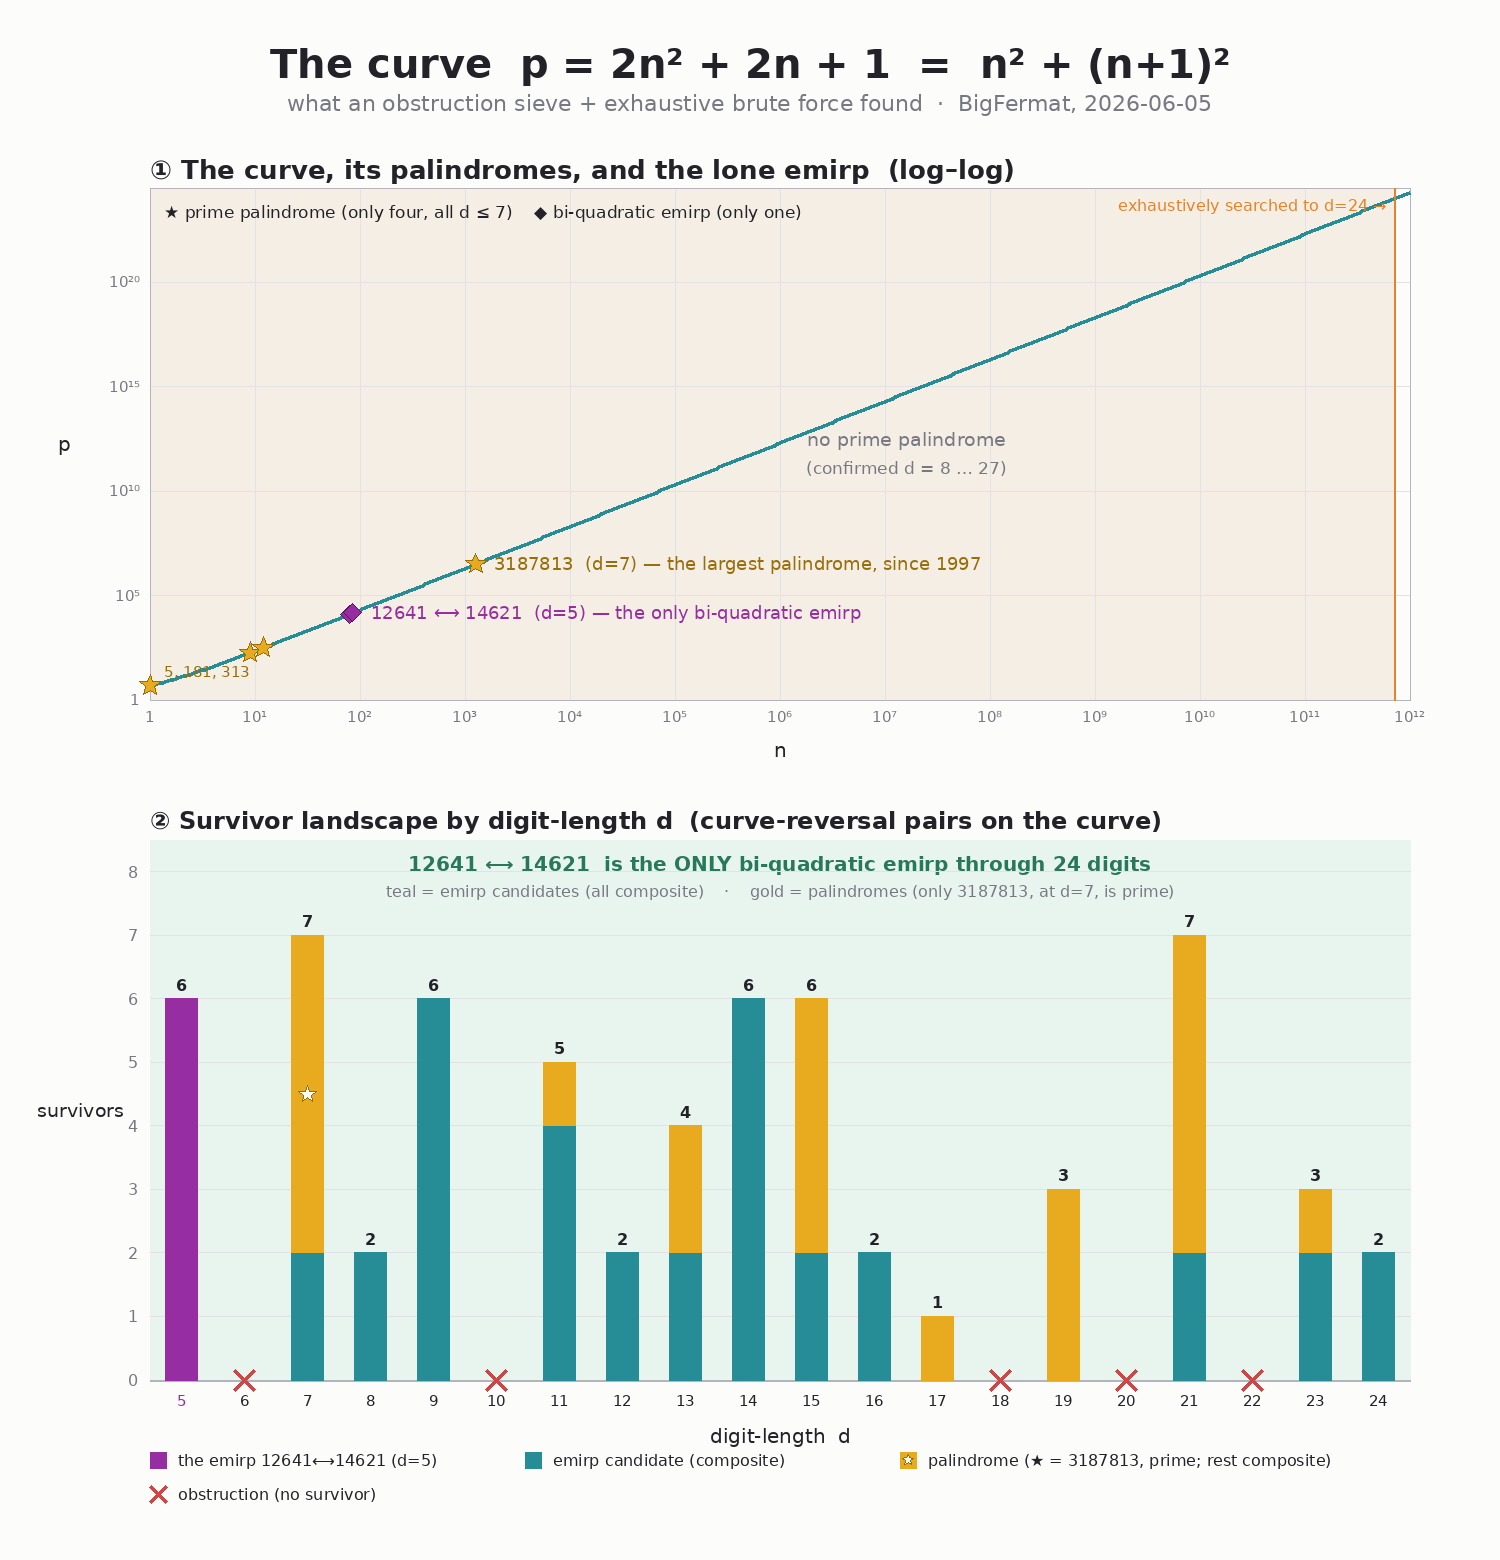
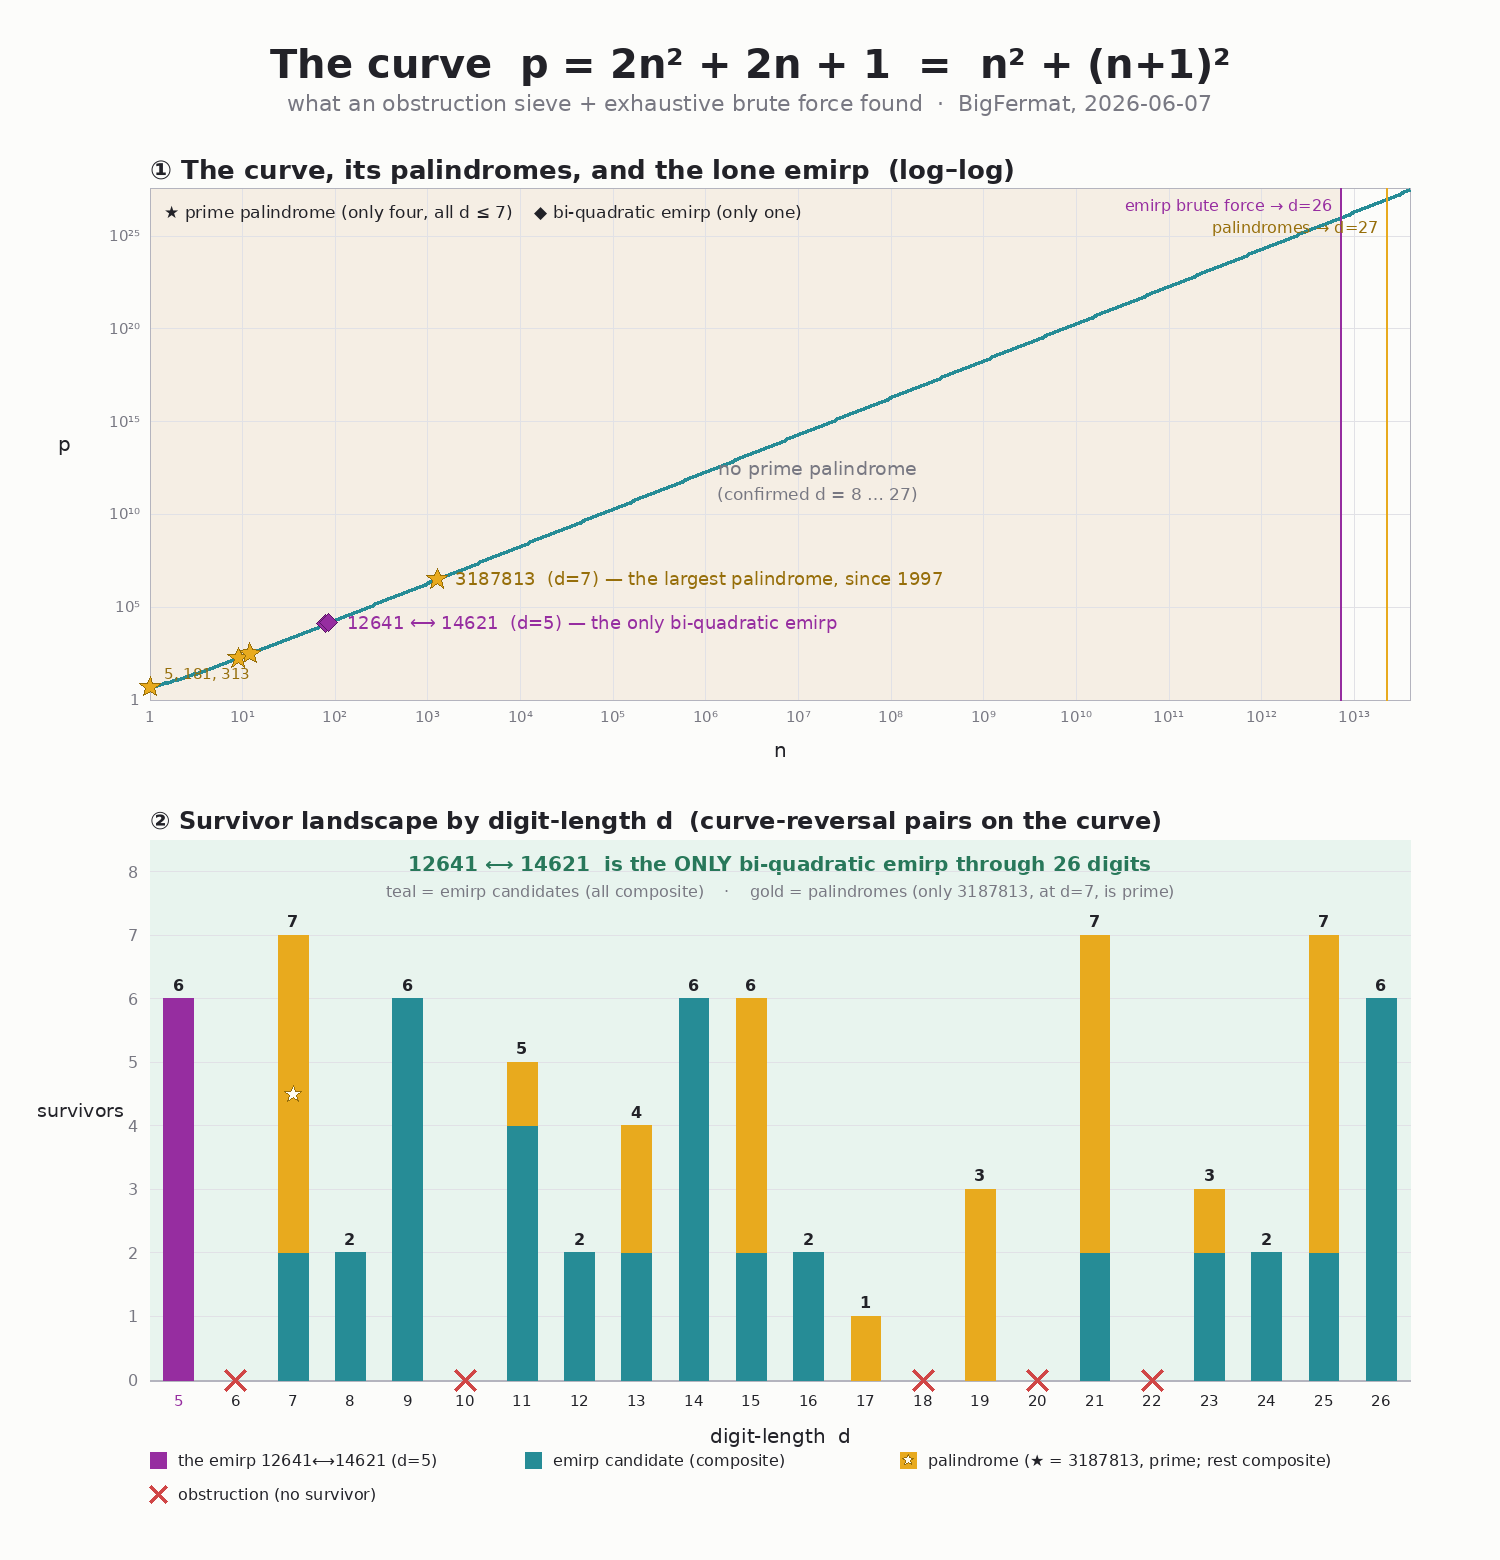
finalize: d=26 EMIRPS=0 — cap the emirp frontier at 26 digits
d=26 hunt complete: range=4,834,999,834,365  raw=6  prime-eligible=2
EMIRPS=0  [53.9 h]. 12641⟷14621 (d=5) remains the only bi-quadratic
emirp through 26 digits; palindromes confirmed through d=27.

- STATE_OF_THE_SEARCH: drop pending banner, flip 25→26, add d=26
  to brute log tail, mark both frontiers done, open question ≥27
- README: emirp headline/heading/landscape/heuristic all 24→26;
  candidate count 629B/707B through 24 → 6.29T/7.07T through 26;
  "≥25 digits" → "≥27 digits"; ellipsis ... → …
- generate_graph.py: extend axes (xhi 12→13.6, yhi 24.5→27.6);
  x gridlines 0..13, y gridlines 0..25; emirp frontier recolored
  ORANGE→EMR purple at LXF=12.85; add gold palindrome frontier
  LXP=13.35 labeled "palindromes → d=27"; Panel B dmax 24→26,
  subtitle "through 26 digits"; append d=25(2,5) d=26(6,0)

diff --git a/generate_graph.py b/generate_graph.py
@@ -14,7 +14,7 @@ emirp_pts = [(79, 12641), (85, 14621)]
 # only PRIMES are the d=5 emirp (12641<->14621) and the d=7 palindrome 3187813.
 landscape = [(5,6,0),(6,0,0),(7,2,5),(8,2,0),(9,6,0),(10,0,0),(11,4,1),(12,2,0),
              (13,2,2),(14,6,0),(15,2,4),(16,2,0),(17,0,1),(18,0,0),(19,0,3),(20,0,0),
-             (21,2,5),(22,0,0),(23,2,1),(24,2,0)]
+             (21,2,5),(22,0,0),(23,2,1),(24,2,0),(25,2,5),(26,6,0)]
 EMIRP_D = 5    # the d=5 emirp 12641<->14621 lives in the candidate segment here
 
 # ---------- canvas ----------
@@ -44,7 +44,7 @@ def text(x,y,s,fnt,fill=INK,anchor="la"):
 
 # ================= header =================
 text(W/2, 40, "The curve  p = 2n² + 2n + 1  =  n² + (n+1)²", FB(40), INK, "ma")
-text(W/2, 90, "what an obstruction sieve + exhaustive brute force found  ·  BigFermat, 2026-06-05",
+text(W/2, 90, "what an obstruction sieve + exhaustive brute force found  ·  BigFermat, 2026-06-07",
      F(22), MUT, "ma")
 
 # ================= PANEL A : the curve, log-log =================
@@ -52,19 +52,19 @@ ax_l, ax_r = 150, W-90
 A_t, A_b = 188, 700
 text(ax_l, A_t-34, "① The curve, its palindromes, and the lone emirp  (log–log)", FB(26), INK, "la")
 
-# axis ranges: x=log10(n) 0..12 ; y=log10(p) 0..24.5
-xlo,xhi = 0,12.0; ylo,yhi = 0,24.5
+# axis ranges: x=log10(n) 0..13.6 ; y=log10(p) 0..27.6
+xlo,xhi = 0,13.6; ylo,yhi = 0,27.6
 def AX(lx): return ax_l + (lx-xlo)/(xhi-xlo)*(ax_r-ax_l)
 def AY(ly): return A_b - (ly-ylo)/(yhi-ylo)*(A_b-A_t)
 
-# frontier shading (exhaustively searched to d=24  ->  n ~ 7e11, log ~ 11.85)
-LXF = 11.85
+# frontier shading — emirp brute force through d=26 (n ~ 7e12, log ~ 12.85)
+LXF = 12.85
 d.rectangle([AX(0),A_t,AX(LXF),A_b], fill=FRONT)
 # gridlines
-for gx in range(0,13,1):
+for gx in range(0,14,1):
     d.line([AX(gx),A_t,AX(gx),A_b], fill=GRID)
     text(AX(gx),A_b+8,sup(gx) if gx else "1",F(15),MUT,"ma")
-for gy in range(0,25,5):
+for gy in range(0,28,5):
     d.line([ax_l,AY(gy),ax_r,AY(gy)], fill=GRID)
     text(ax_l-10,AY(gy),sup(gy) if gy else "1",F(15),MUT,"rm")
 text((ax_l+ax_r)/2, A_b+38, "n", F(20), INK, "ma")
@@ -81,8 +81,12 @@ for i in range(0,481):
 d.line(pts, fill=TEAL, width=4)
 
 # frontier line + label
-d.line([AX(LXF),A_t,AX(LXF),A_b], fill=ORANGE, width=2)
-text(AX(LXF)-8, A_t+8, "exhaustively searched to d=24 →", F(16), ORANGE, "ra")
+d.line([AX(LXF),A_t,AX(LXF),A_b], fill=EMR, width=2)
+text(AX(LXF)-8, A_t+8, "emirp brute force → d=26", F(16), EMR, "ra")
+# palindrome frontier line + label (gold, at d=27 ceiling)
+LXP = 13.35
+d.line([AX(LXP),A_t,AX(LXP),A_b], fill=GOLD, width=2)
+text(AX(LXP)-8, A_t+30, "palindromes → d=27", F(16), (150,110,10), "ra")
 
 # "desert" annotation along the upper curve
 text(AX(7.2), AY(12.5), "no prime palindrome", F(19), MUT, "mm")
@@ -120,7 +124,7 @@ B_t, B_b = 840, 1380
 bx_l, bx_r = 150, W-90
 text(bx_l, B_t-34, "② Survivor landscape by digit-length d  (curve-reversal pairs on the curve)", FB(24), INK,"la")
 
-dmin,dmax = 5,24; ymax=8.5
+dmin,dmax = 5,26; ymax=8.5
 def BX(dd):
     # centered columns
     span=(bx_r-bx_l); step=span/(dmax-dmin+1)
@@ -129,10 +133,10 @@ def BY(c): return B_b - c/ymax*(B_b-B_t)
 step=(bx_r-bx_l)/(dmax-dmin+1)
 
 # result band + subtitle (clear zone above the tallest bar, total<=7)
-d.rectangle([BX(5)-step/2, B_t, BX(24)+step/2, B_b], fill=BAND)
-text((BX(5)+BX(24))/2, B_t+12,
-     "12641 ⟷ 14621  is the ONLY bi-quadratic emirp through 24 digits", FB(20), (40,120,90), "ma")
-text((BX(5)+BX(24))/2, B_t+42,
+d.rectangle([BX(5)-step/2, B_t, BX(26)+step/2, B_b], fill=BAND)
+text((BX(5)+BX(26))/2, B_t+12,
+     "12641 ⟷ 14621  is the ONLY bi-quadratic emirp through 26 digits", FB(20), (40,120,90), "ma")
+text((BX(5)+BX(26))/2, B_t+42,
      "teal = emirp candidates (all composite)    ·    gold = palindromes (only 3187813, at d=7, is prime)",
      F(16), MUT, "ma")
 

diff --git a/docs/STATE_OF_THE_SEARCH.md b/docs/STATE_OF_THE_SEARCH.md
@@ -4,10 +4,9 @@
 > rare kinds of prime. This document is the honest summary of where the search
 > stands, what is *proven*, what is *believed*, and why it stops where it stops.
 >
-> **Status (2026-06-06):** emirps brute-confirmed **through d = 25**; prime
-> palindromes brute-confirmed **through d = 27**. The d = 26 emirp run is in
-> progress and will be the final emirp frontier (this doc is finalized when it
-> lands; the result is near-certainly `EMIRPS = 0`).
+> **Status (2026-06-07):** emirps brute-confirmed **through d = 26**; prime
+> palindromes brute-confirmed **through d = 27**. Search complete at the agreed
+> frontiers.
 
 ---
 
@@ -33,20 +32,21 @@ candidates before any primality test.
 
 ## 2. Results — proven by exhaustion
 
-### Bi-quadratic emirps: exactly one, through d = 25
+### Bi-quadratic emirps: exactly one, through d = 26
 
 **`12641 ⟷ 14621` (d = 5; `79²+80² ⟷ 85²+86²`, both prime) is the only
-bi-quadratic emirp through 25 digits.** Established by exhaustive `hunt.c` (every
-n, GMP-exact); `EMIRPS = 0` for every d = 6…25, cross-checked against the modular
+bi-quadratic emirp through 26 digits.** Established by exhaustive `hunt.c` (every
+n, GMP-exact); `EMIRPS = 0` for every d = 6…26, cross-checked against the modular
 sieve. Representative tail of the brute log:
 
 ```
 d=23  range=152,896,119,631  raw=3  prime-eligible=2  EMIRPS=0
 d=24  range=483,499,983,437  raw=2  prime-eligible=0  EMIRPS=0
 d=25  range=1,528,961,196,313 raw=7 prime-eligible=4  EMIRPS=0   [13.3 h]
+d=26  range=4,834,999,834,365  raw=6 prime-eligible=2  EMIRPS=0   [53.9 h]
 ```
 
-Every curve-reversal survivor through d = 25 has `p` and/or `q` composite, except
+Every curve-reversal survivor through d = 26 has `p` and/or `q` composite, except
 the d = 5 emirp itself. True obstructions (no survivor of any kind): d = 6, 10,
 18, 20, 22. Full landscape: [`PROJECT_OVERVIEW.md`](PROJECT_OVERVIEW.md).
 
@@ -71,14 +71,14 @@ Now confirmed 20 digits past where it was first found.
 
 ## 3. What is proven vs. what is believed (the honesty line)
 
-- **Brute-verified (two independent tools):** emirps to d = 25, palindromes to
+- **Brute-verified (two independent tools):** emirps to d = 26, palindromes to
   d = 27 — `hunt.c` (`EMIRPS = 0`) and `palhunt_gmp` (`found = 0`). This is the
   hard floor of the result.
 - **Rests on `cvpipe`'s own logs (not yet brute-verified):** anything beyond the
   brute frontier. The fast pipeline ran further (a verified d = 24 run exists and
-  cross-checks the brute tools), but the brute tools top out near d = 25–26, so
-  higher digits are corroborated by one engine only. Stated as such; not promoted
-  to "proven."
+  cross-checks the brute tools), but d = 26 is the brute-force ceiling for emirps.
+  The agreed stopping points sit exactly at the brute-verified floor; nothing is
+  promoted beyond that.
 
 ---
 
@@ -106,7 +106,7 @@ A coin-flip density argument:
 - **Bi-quadratic emirps are expected to be *finite*** — expected count ≈ `C/d²`
   per length; the sum converges, with an **expected total ≈ 1 across all
   integers.** That a single emirp (`12641 ⟷ 14621`) exists and no other has
-  appeared through 25 digits is exactly what "expected total ≈ 1" predicts.
+  appeared through 26 digits is exactly what "expected total ≈ 1" predicts.
 - **Prime palindromes may be *infinite*** — expected count ≈ `C′/d`; the sum
   diverges. So the conjecture "3187813 is the last" is the *interesting* claim:
   the heuristic does **not** guarantee it, which is precisely why it's worth
@@ -125,7 +125,7 @@ known results is ≈ 0 (emirps) and the palindrome conjecture has held 20 digits
 deep. Burning weeks of CPU per digit for a near-certain null is not where the
 interest lives. So the agreed final frontiers are:
 
-- **Emirps: d = 26** (in progress) — then stop.
+- **Emirps: d = 26** (done) — then stop.
 - **Palindromes: d = 27** (done) — then stop.
 
 The capstone rests on the brute-verified floor plus the convergent heuristic. No
@@ -150,7 +150,7 @@ search is compute. **If the economics change, the hunt reopens:**
   the emirp; d = 3/7 must report 181/313/3187813).
 - **Where to resume:** emirp frontier **d = 26**, palindrome frontier **d = 27**.
   Pick up at the next digit.
-- **What's still open:** does a second bi-quadratic emirp exist at any d ≥ 26? Is
+- **What's still open:** does a second bi-quadratic emirp exist at any d ≥ 27? Is
   3187813 truly the last prime palindrome? Both are *unproven* — only unobserved.
 
 ---

diff --git a/README.md b/README.md
@@ -12,8 +12,8 @@ theorem (the primes ≡ 1 mod 4). Hence the name.
 That consecutive-squares structure pins every value to one of just six two-digit
 endings — `{01, 13, 21, 41, 61, 81}` (and, reversed, six leading patterns
 `{10, 12, 14, 16, 18, 31}`). It's the cheap first/last-digit **filter that discards
-≈ 89% of `p`/`q` candidates instantly (~9× speedup) — roughly 629 billion of the
-~707 billion candidates through 24 digits — before any primality test** — a
+≈ 89% of `p`/`q` candidates instantly (~9× speedup) — roughly 6.29 trillion of the
+~7.07 trillion candidates through 26 digits — before any primality test** — a
 [proof by construction](docs/ending_constraint_proof.md).
 
 ![The curve and its findings: prime palindromes cluster at small d; the emirp obstruction landscape](docs/biquad_curve_landscape.png)
@@ -25,7 +25,7 @@ endings — `{01, 13, 21, 41, 61, 81}` (and, reversed, six leading patterns
 - **Bi-quadratic emirp** — a prime `p = 2n²+2n+1` whose digit-reversal
   `q = rev(p)` is **also** prime **and also** of the form `2m²+2m+1`, with `q ≠ p`.
   (Both ends prime, both on the curve, not a palindrome.) **Exactly one is known:
-  `12641 ⟷ 14621` (d=5) — the only one through 24 digits.**
+  `12641 ⟷ 14621` (d=5) — the only one through 26 digits.**
 - **Prime palindrome on the curve** — a prime `p = 2n²+2n+1` that reads the same
   forwards and backwards. Four are known: **5, 181, 313, 3187813**.
 
@@ -36,24 +36,24 @@ These two searches turn out to be **the same sieve**: a palindrome is just the
 
 ## Results
 
-### `12641 ⟷ 14621` is the only bi-quadratic emirp through 24 digits
+### `12641 ⟷ 14621` is the only bi-quadratic emirp through 26 digits
 
 There is exactly **one** bi-quadratic emirp in this range — `12641 ⟷ 14621`
 (d=5; `79²+80² ⟷ 85²+86²`, both prime). Established by exhaustive `hunt.c` brute
-force (every n, GMP-exact, d=5–24), cross-checked against the modular sieve:
+force (every n, GMP-exact, d=5–26), cross-checked against the modular sieve:
 
 ```
 d = 5                          : EMIRP — 12641 ⟷ 14621  (both prime, both on curve)   ← the only one
 d = 6, 10, 18, 20, 22          : OBSTRUCTION — no curve-reversal survivor at all
 d = 17, 19                     : only palindromic survivors → no emirp candidate
-d = 7,8,9,11–16,21,23,24       : emirp candidates exist, all composite → no emirp
+d = 7,8,9,11–16,21,23–26       : emirp candidates exist, all composite → no emirp
 ```
 
 (An "emirp candidate" is a *non-palindrome* `n` with both `p` and `rev(p)` on the
 curve; palindromes — including the prime `3187813` — are a separate object, shown
 in gold in the figure.) Apart from `12641 ⟷ 14621`, every emirp candidate through
-24 digits has `p` and/or `q` composite. So `12641 ⟷ 14621` is the smallest — and,
-so far, the **only** — bi-quadratic emirp. The next one, if any, has **≥ 25 digits**.
+26 digits has `p` and/or `q` composite. So `12641 ⟷ 14621` is the smallest — and,
+so far, the **only** — bi-quadratic emirp. The next one, if any, has **≥ 27 digits**.
 
 ### Prime palindromes: a 27-year conjecture
 
@@ -71,7 +71,7 @@ Two roads were rigorously **ruled out** by measurement (see
 
 - **No faster search.** A meet-in-the-middle attack gives no √-speedup — the
   digit-reversal of a quadratic entangles the middle digits irreducibly. Search
-  is **~10^(d/2)-bound** (brute force reaches ~d=25).
+  is **~10^(d/2)-bound** (brute force reaches ~d=26).
 - **No congruence proof.** A sweep of 50 base-aligned / 2-power / 5-power moduli
   found **zero** obstructions: the real obstructions are *non-congruential*
   (sporadic). A non-existence theorem, if any, needs new mathematics.
@@ -145,7 +145,7 @@ python3 generate_graph.py
 ---
 
 ## Why "BigFermat"
-### The hobby...
+### The hobby…
 The hunt began after Simon Singh's *Fermat's Enigma* (1997) — a book about
 Fermat's *Last* Theorem that sent the search into Fermat's *other* famous result,
 the **two-square theorem**: every prime ≡ 1 (mod 4) is a sum of two squares (and no
